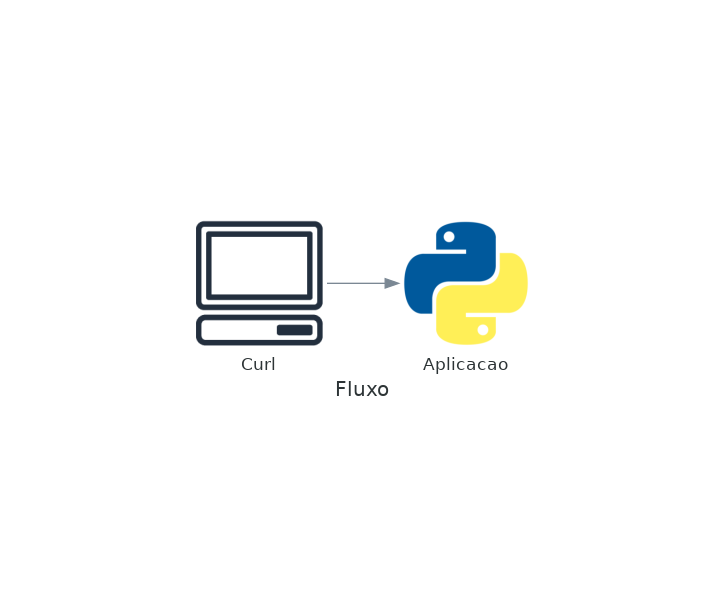
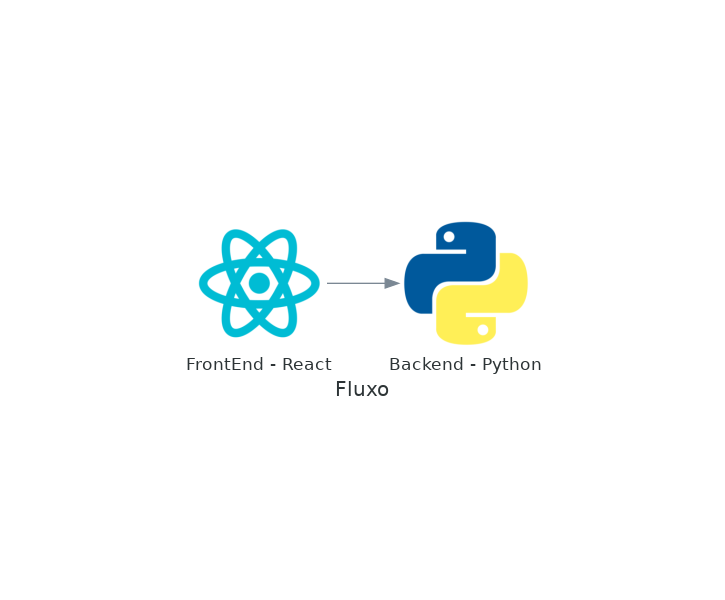
Nova imagem do diagrama

Changed region(s): [[0.2428, 0.36, 0.4552, 0.63], [0.5462, 0.6, 0.7586, 0.63]]

diff --git a/diagram/diagram.py b/diagram/diagram.py
@@ -1,9 +1,12 @@
+#https://diagrams.mingrammer.com/docs/getting-started/examples
+
 from diagrams import Diagram
 from diagrams.onprem.client import Client
 from diagrams.programming.language import Python
+from diagrams.programming.framework import React
 
 with Diagram("Fluxo", show=False):
-    curl_cliente = Client("Curl")
-    app_python = Python("Aplicacao")
+    front = React("FrontEnd - React")
+    backend = Python("Backend - Python")
 
-    curl_cliente >> app_python
+    front >> backend
